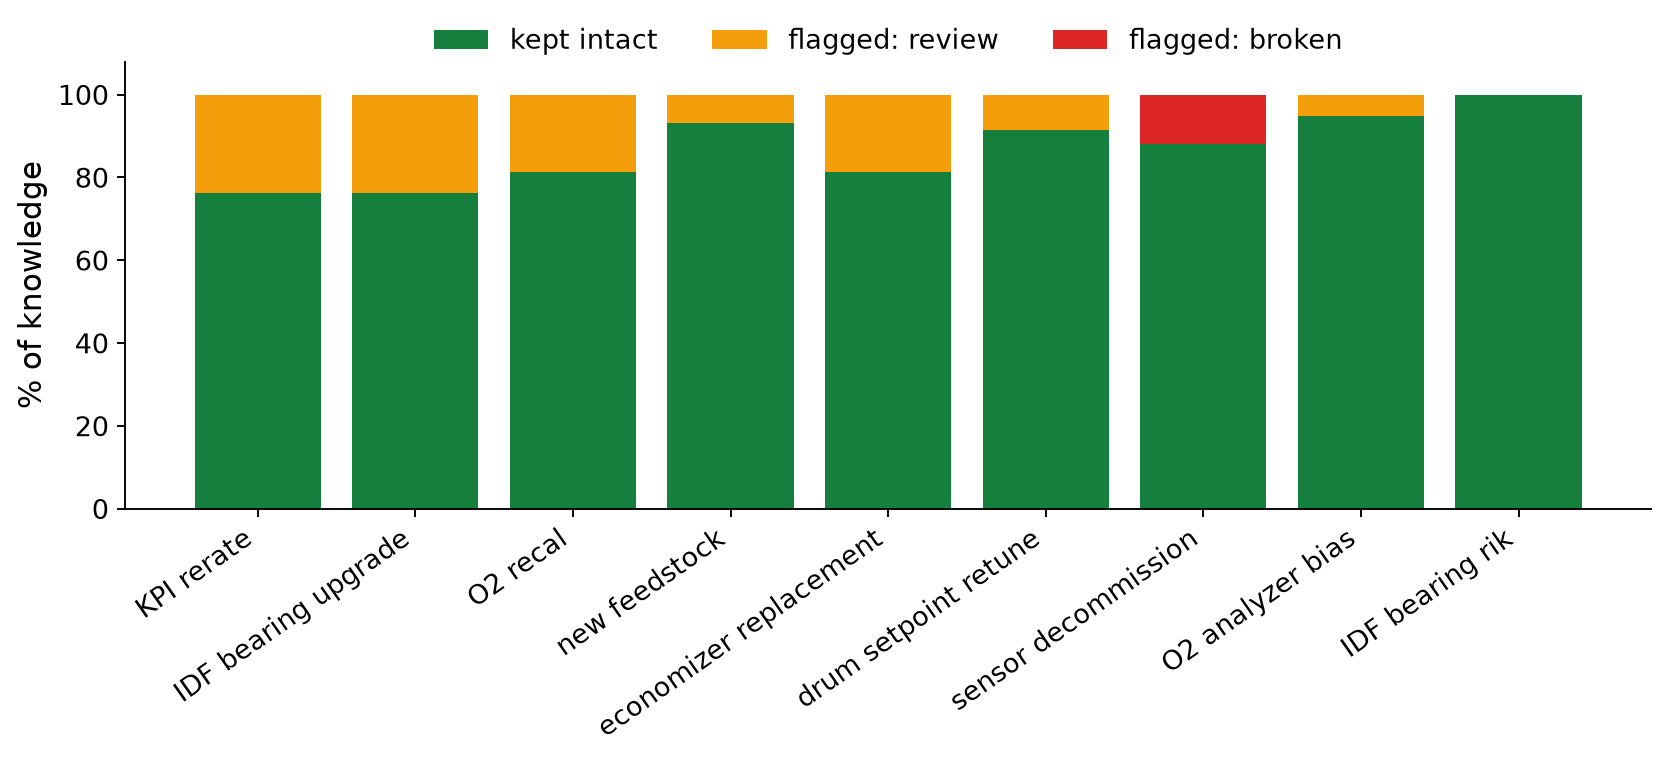
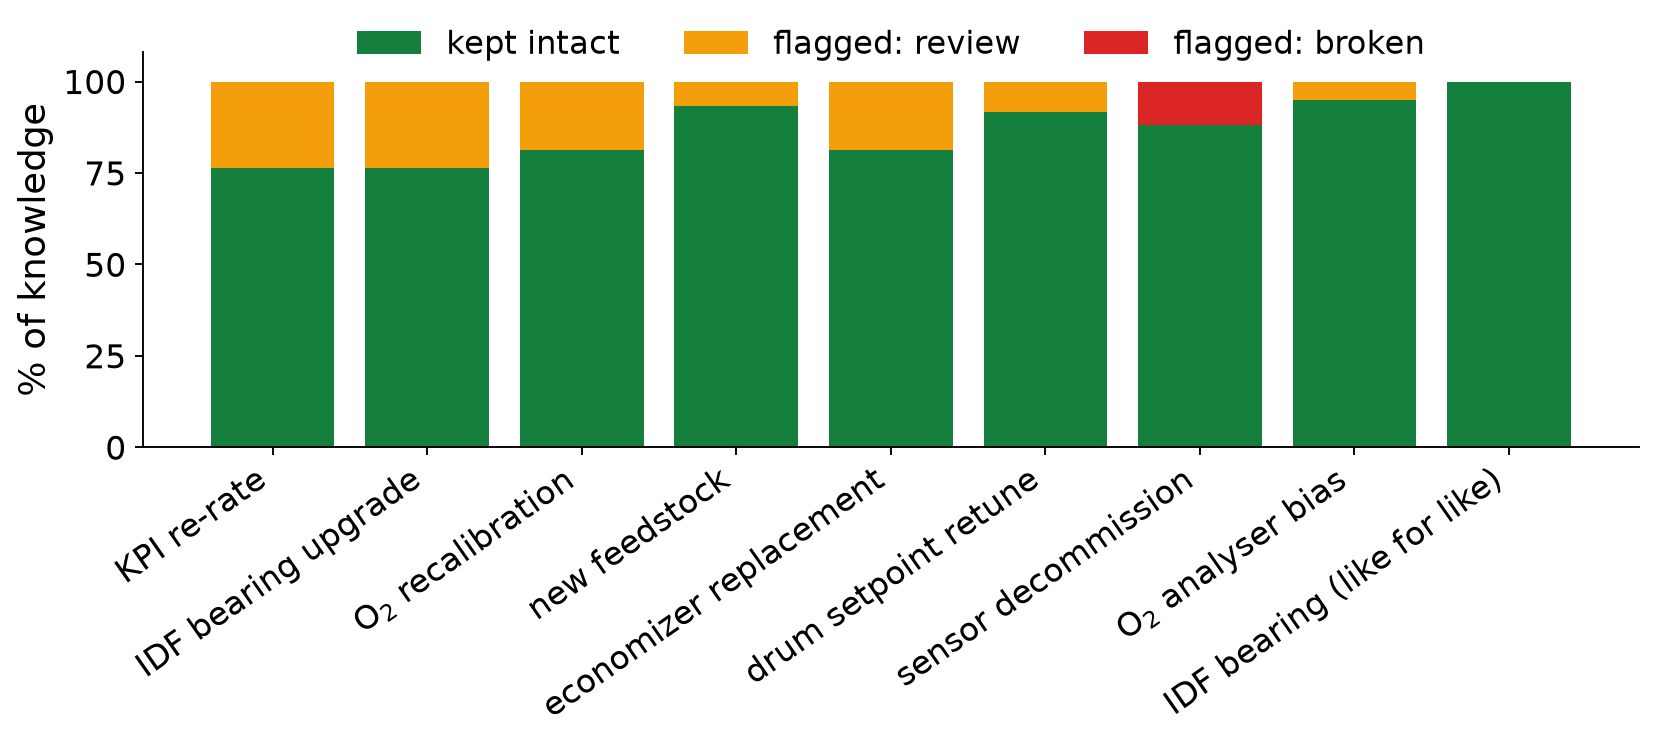
Readable experiment figures for the final report
- Plain-language scenario and asset labels instead of code names
- Larger fonts; legends moved clear of the data (E2, E5, E6)
- Headroom for value labels (E3, E8); evenly spaced bus-factor bars (E7)
- Fixed log-axis ticks on the T2 plot (E6); arrows and units in E4 title

Plotting only: no result values change (E7 JSON differs only in tie order).

Changed region(s): [[0.0, 0.031, 0.9553, 0.9609], [0.7088, 0.8989, 0.7396, 0.9609], [0.2157, 0.8059, 0.2465, 0.8369]]

diff --git a/plant_memory/experiments.py b/plant_memory/experiments.py
@@ -28,9 +28,9 @@ def _plt():
     import matplotlib
     matplotlib.use("Agg")
     import matplotlib.pyplot as plt
-    plt.rcParams.update({"font.size": 13, "axes.titlesize": 14, "axes.labelsize": 13,
-                         "legend.fontsize": 11.5, "xtick.labelsize": 11.5,
-                         "ytick.labelsize": 11.5, "axes.spines.top": False,
+    plt.rcParams.update({"font.size": 15.5, "axes.titlesize": 16.5, "axes.labelsize": 15.5,
+                         "legend.fontsize": 13.5, "xtick.labelsize": 14,
+                         "ytick.labelsize": 14, "axes.spines.top": False,
                          "axes.spines.right": False, "savefig.dpi": 170})
     return plt
 
@@ -48,8 +48,17 @@ def _fig(plt, fig, name):
     plt.close(fig)
 
 
+NICE = {"kpi_rerate": "KPI re-rate", "idf_bearing_upgrade": "IDF bearing upgrade",
+        "o2_recal": "O$_2$ recalibration", "new_feedstock": "new feedstock",
+        "economizer_replacement": "economizer replacement", "drum_setpoint_retune": "drum setpoint retune",
+        "sensor_decommission": "sensor decommission", "o2_analyzer_bias": "O$_2$ analyser bias",
+        "idf_bearing_rik": "IDF bearing (like for like)"}
+ASSET = {"cyclone_separator_left": "left cyclone", "cyclone_separator_right": "right cyclone",
+         "economizer": "economizer", "induced_draft_fan": "induced draft fan"}
+
+
 def _short(s):
-    return s.replace("_", " ").replace("idf ", "IDF ").replace("kpi", "KPI").replace("o2", "O2")
+    return NICE.get(s, s.replace("_", " "))
 
 
 # ---------------------------------------------------------------------------
@@ -139,8 +148,8 @@ def e2_coverage():
                           ("physical", AMBER, "physically disturbed assets")]:
         v = np.array([r[key] for r in rows]); ax.bar(x, v, bottom=bottom, color=col, label=lab); bottom += v
     ax.set_xticks(x); ax.set_xticklabels([_short(r["scenario"]) for r in rows], rotation=35, ha="right")
-    ax.set_ylabel("items the MOC review must cover")
-    ax.legend(ncol=3, loc="upper center", bbox_to_anchor=(0.5, 1.18), frameon=False)
+    ax.set_ylabel("review items"); ax.set_ylim(0, bottom.max() * 1.45)
+    ax.legend(ncol=3, loc="upper center", frameon=False, fontsize=12.5)
     _fig(plt, fig, "E2_coverage")
     return res
 
@@ -161,7 +170,8 @@ def e3_propagation():
     axs[0].axhline(r["random_MAP"], ls="--", color=RED, label=f"random ({r['random_MAP']:.2f})")
     for i, v in enumerate(vals):
         axs[0].text(i, v + 0.006, f"{v:.3f}", ha="center")
-    axs[0].set_ylabel("MAP on held-out days"); axs[0].legend(frameon=False)
+    axs[0].set_ylim(0, max(vals) * 1.22)
+    axs[0].set_ylabel("MAP on held-out days"); axs[0].legend(frameon=False, loc="upper left")
     axs[0].set_title("Where does a disturbance go?")
     plt.setp(axs[0].get_xticklabels(), rotation=15)
     a = sorted(r["alpha_sweep_cal"])
@@ -195,12 +205,12 @@ def e4_replay():
     fig, ax = plt.subplots(figsize=(11.5, 4.4))
     hrs = (ts - ts[0]).astype("timedelta64[s]").astype(float) / 3600
     ax.plot(hrs[::12], x[::12], lw=0.6, color=GREY, label="TE_8332A (5 days)")
-    ax.axhline(sp["TE_8332A"]["Hi"], color=GREEN, lw=2, label=f"current Hi = {sp['TE_8332A']['Hi']} °C")
+    ax.axhline(sp["TE_8332A"]["Hi"], color=GREEN, lw=2, label=f"current Hi = {sp['TE_8332A']['Hi']:.0f} °C")
     ax.axhline(543, color=RED, lw=2, ls="--", label="proposed Hi = 543 °C")
     ax.axhspan(530, 545, color=GREEN, alpha=0.06)
     c = out["cases"]["kpi_rerate"]["rows"][0]
-    ax.set_title(f"Alarm replay of the KPI re-rate: activations {c['activations_before']} -> "
-                 f"{c['activations_after']}, standing time {c['active_h_before']} h -> {c['active_h_after']} h")
+    ax.set_title(f"KPI re-rate replay: Hi alarm activations {c['activations_before']} → "
+                 f"{c['activations_after']}, standing time {c['active_h_before']:.1f} h → {c['active_h_after']:.1f} h")
     ax.set_xlabel("hours"); ax.set_ylabel("°C"); ax.set_ylim(500, 560)
     ax.legend(loc="lower right", ncol=3, frameon=False)
     _fig(plt, fig, "E4_alarm_replay")
@@ -225,7 +235,8 @@ def e5_unmanaged(trials: int = 12):
                     label=f"{lab}: {c['fp_per_day_per_tag']:.2f} false/tag/day")
     axs[0].axhline(0, color="k", lw=0.8)
     axs[0].set_xlabel(r"injected step size ($\sigma$)"); axs[0].set_ylabel("detection above chance (pp)")
-    axs[0].set_title("Detecting a change that skipped MOC"); axs[0].legend(frameon=False, fontsize=9.5)
+    axs[0].set_title("Detecting a change that skipped MOC"); axs[0].legend(frameon=False, fontsize=11.5, loc="upper left")
+    axs[0].set_ylim(-30, 150); axs[0].set_yticks(range(-20, 81, 20))
     for det, col in (("fingerprint", BLUE), ("cusum", AMBER), ("wander", GREEN)):
         cs = [c for c in r["configs"].values() if c["detector"] == det]
         axs[1].plot([c["fp_per_day_per_tag"] for c in cs], [c["excess"][2.0] * 100 for c in cs],
@@ -272,8 +283,13 @@ def e6_model():
     ax.semilogy(s1["t2"][:n], color=RED, lw=0.8, label=f"after new coal blend (FAR {s1['false_alarm_rate']*100:.0f} %)")
     ax.axhline(m.t2_lim, color="k", ls="--", label=f"99 % T² limit = {m.t2_lim:.1f}")
     ax.set_xlabel("held-out minutes"); ax.set_ylabel("Hotelling T² (log)")
-    ax.set_title("A plant change silently breaks the monitoring model; PlantMemory flags it in advance")
-    ax.legend(frameon=False, loc="upper right")
+    from matplotlib.ticker import FixedFormatter, FixedLocator, NullFormatter
+    ticks = [3, 5, 10, 20, 50, 100]
+    ax.yaxis.set_major_locator(FixedLocator(ticks))
+    ax.yaxis.set_major_formatter(FixedFormatter([str(t) for t in ticks]))
+    ax.yaxis.set_minor_formatter(NullFormatter()); ax.set_ylim(2.5, 120)
+    ax.set_title("Monitoring model before and after the new coal blend")
+    ax.legend(frameon=False, loc="upper center", bbox_to_anchor=(0.5, -0.2), ncol=3)
     _fig(plt, fig, "E6_model_moc")
     return res
 
@@ -307,15 +323,16 @@ def e7_org():
     _save("E7_org", res)
     fig, axs = plt.subplots(1, 2, figsize=(12.5, 4.6))
     ex = p01["assets_exposed"][:10]
-    axs[0].barh([a["asset"] for a in ex][::-1], [a["KRI"] for a in ex][::-1], color=RED)
+    axs[0].barh([ASSET.get(a["asset"], a["asset"]) for a in ex][::-1], [a["KRI"] for a in ex][::-1], color=RED)
     axs[0].set_xlabel("knowledge risk index"); axs[0].set_title("Senior shift engineer leaves: exposed assets")
     ks = sorted(set(res["bus_factor_full"]) | set(res["bus_factor_tacit_only"]))
     w = 0.38
-    axs[1].bar(np.array(ks) - w / 2, [res["bus_factor_tacit_only"].get(k, 0) for k in ks], w,
+    pos = np.arange(len(ks))
+    axs[1].bar(pos - w / 2, [res["bus_factor_tacit_only"].get(k, 0) for k in ks], w,
                color=AMBER, label="tacit (seed) knowledge only")
-    axs[1].bar(np.array(ks) + w / 2, [res["bus_factor_full"].get(k, 0) for k in ks], w,
+    axs[1].bar(pos + w / 2, [res["bus_factor_full"].get(k, 0) for k in ks], w,
                color=GREEN, label="with grounded documented corpus")
-    axs[1].set_xticks(ks); axs[1].set_xticklabels([str(k) if k < 4 else "4+" for k in ks])
+    axs[1].set_xticks(pos); axs[1].set_xticklabels([str(k) if k < 4 else "4+" for k in ks])
     axs[1].set_xlabel("bus factor (people)"); axs[1].set_ylabel("assets")
     axs[1].set_title("Review capacity across the unit"); axs[1].legend(frameon=False)
     _fig(plt, fig, "E7_org")
@@ -348,10 +365,10 @@ def e8_scaling():
     ax.plot([r["N"] for r in rows], [r["saving"] * 100 for r in rows], "o-", color=GREEN)
     for r in rows:
         ax.annotate(f"{r['saving']*100:.1f}%", (r["N"], r["saving"] * 100),
-                    textcoords="offset points", xytext=(0, 8), ha="center", fontsize=10)
-    ax.set_xscale("log"); ax.set_xlabel("knowledge entries (units x 59)")
-    ax.set_ylabel("re-validation effort saved (%)"); ax.set_ylim(60, 102)
-    ax.set_title("Saving grows with the knowledge base when changes stay local")
+                    textcoords="offset points", xytext=(0, 9), ha="center", fontsize=13)
+    ax.set_xscale("log"); ax.set_xlabel("knowledge entries (59 per unit, log scale)")
+    ax.set_ylabel("effort saved (%)"); ax.set_ylim(60, 105)
+    ax.set_title("Saving as the plant grows (changes stay local)")
     _fig(plt, fig, "E8_scaling")
     return {"rows": rows}
 
